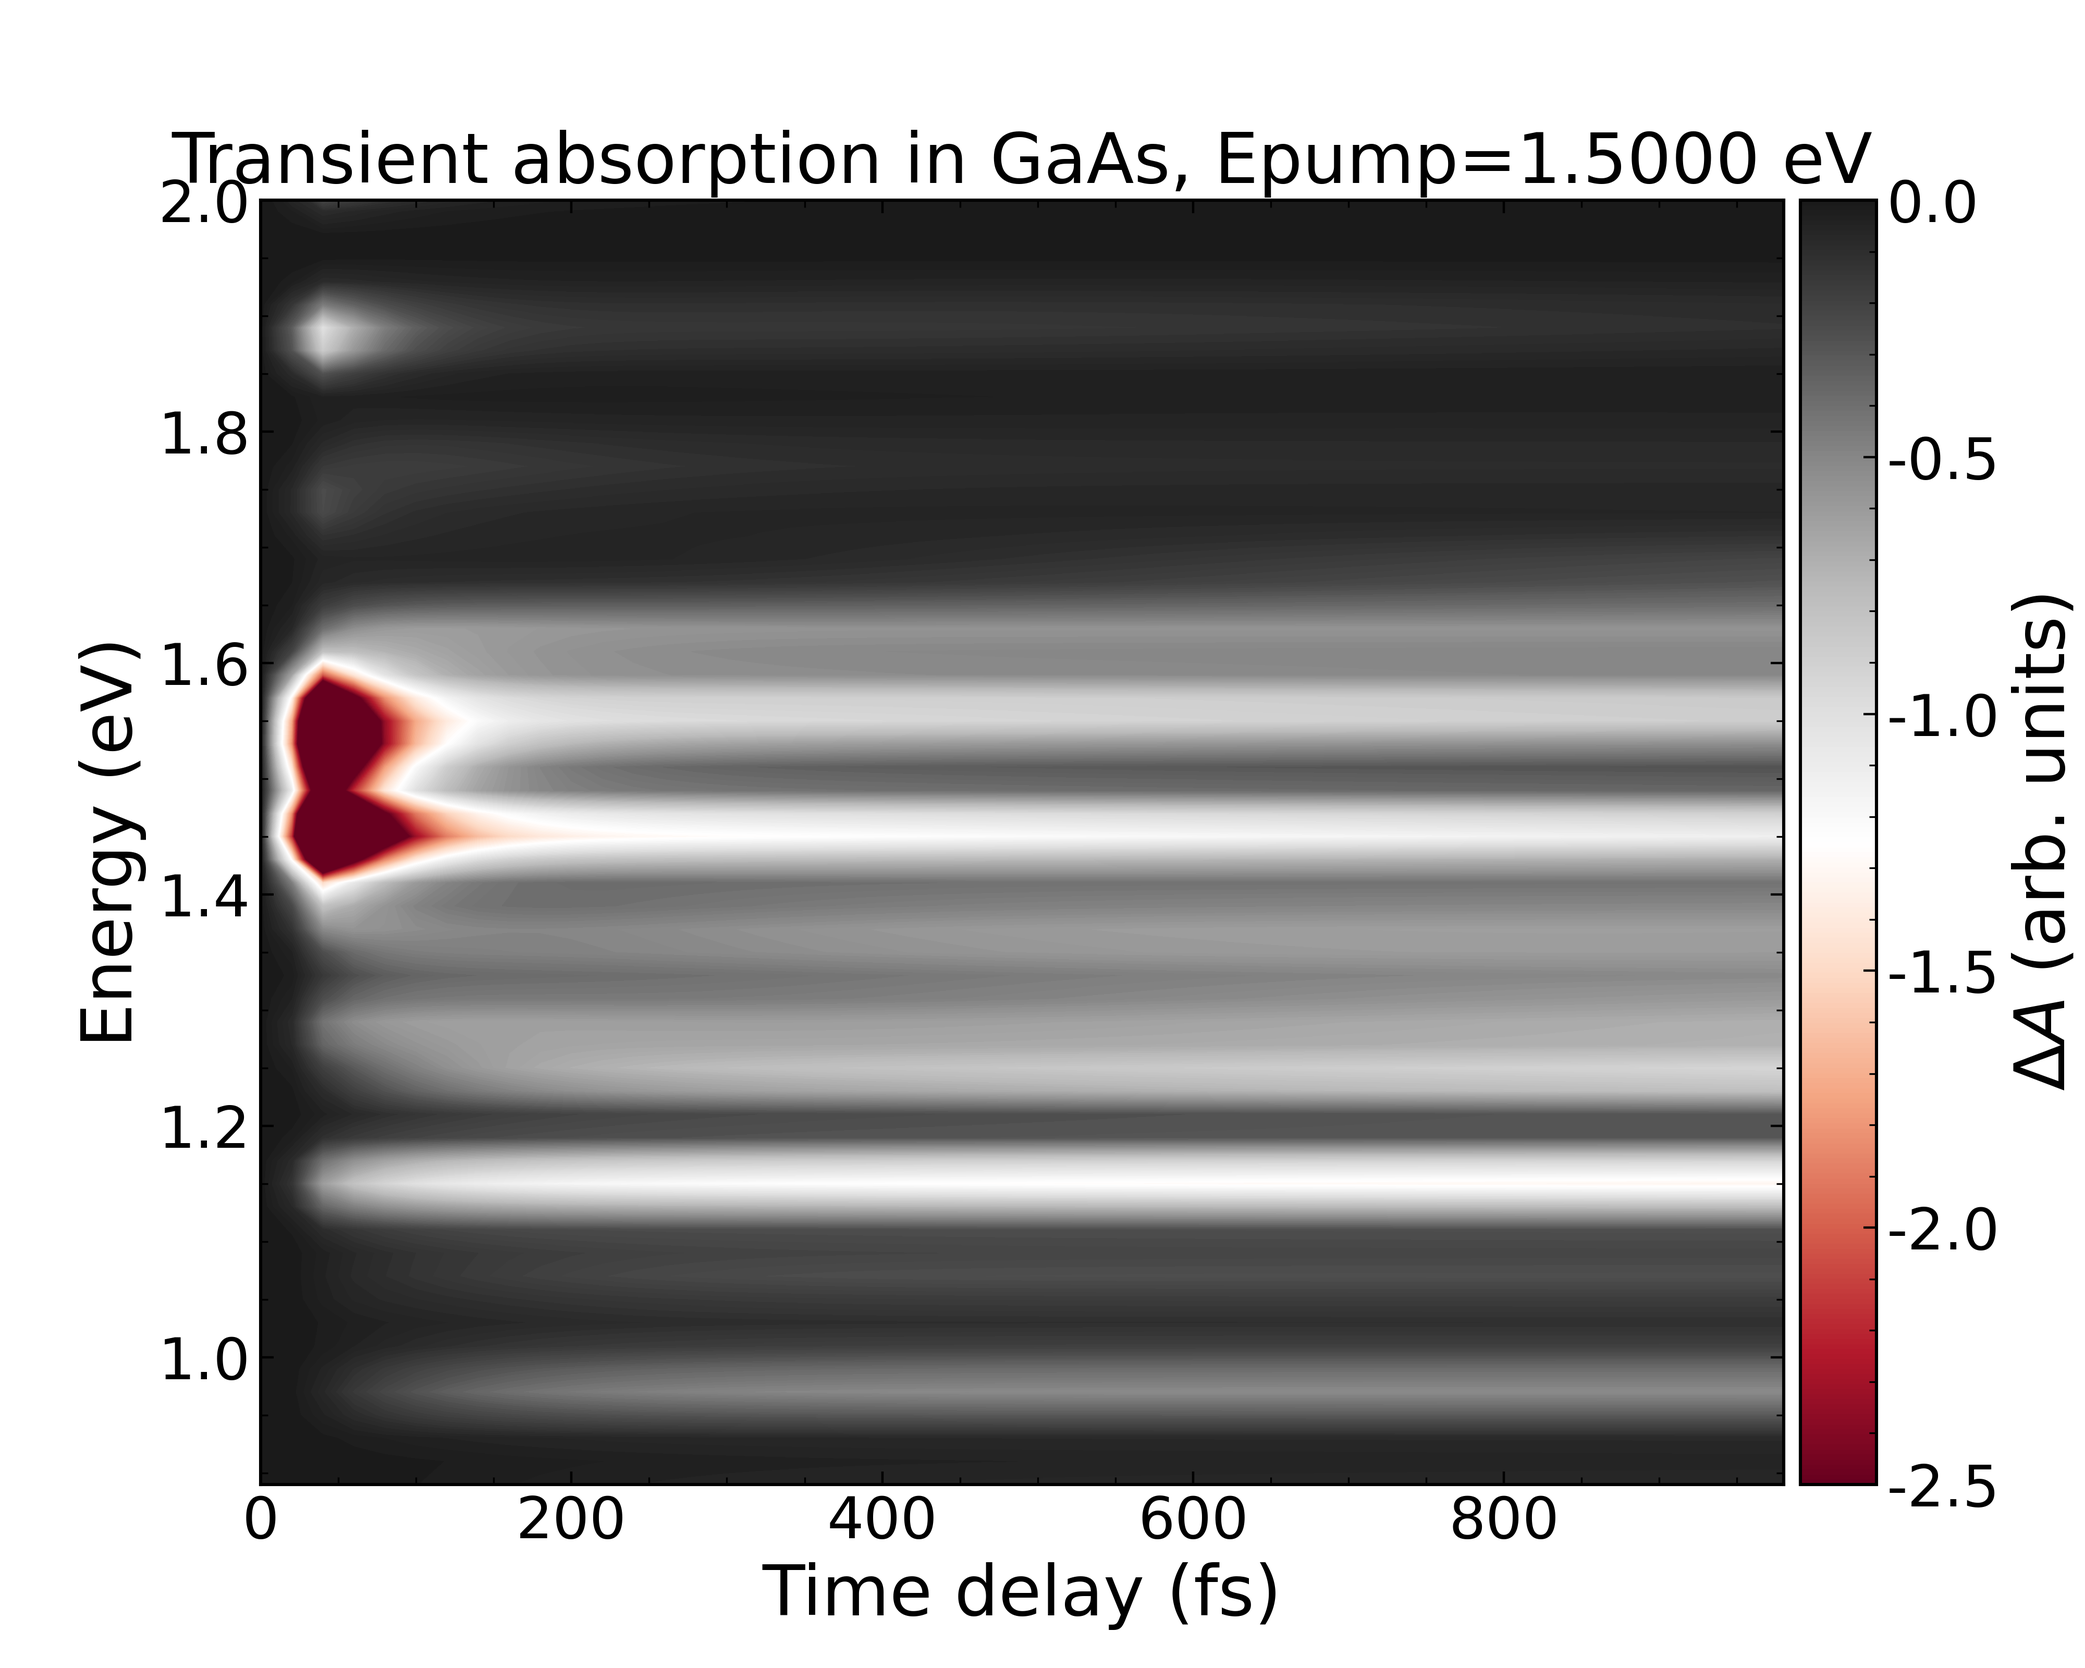
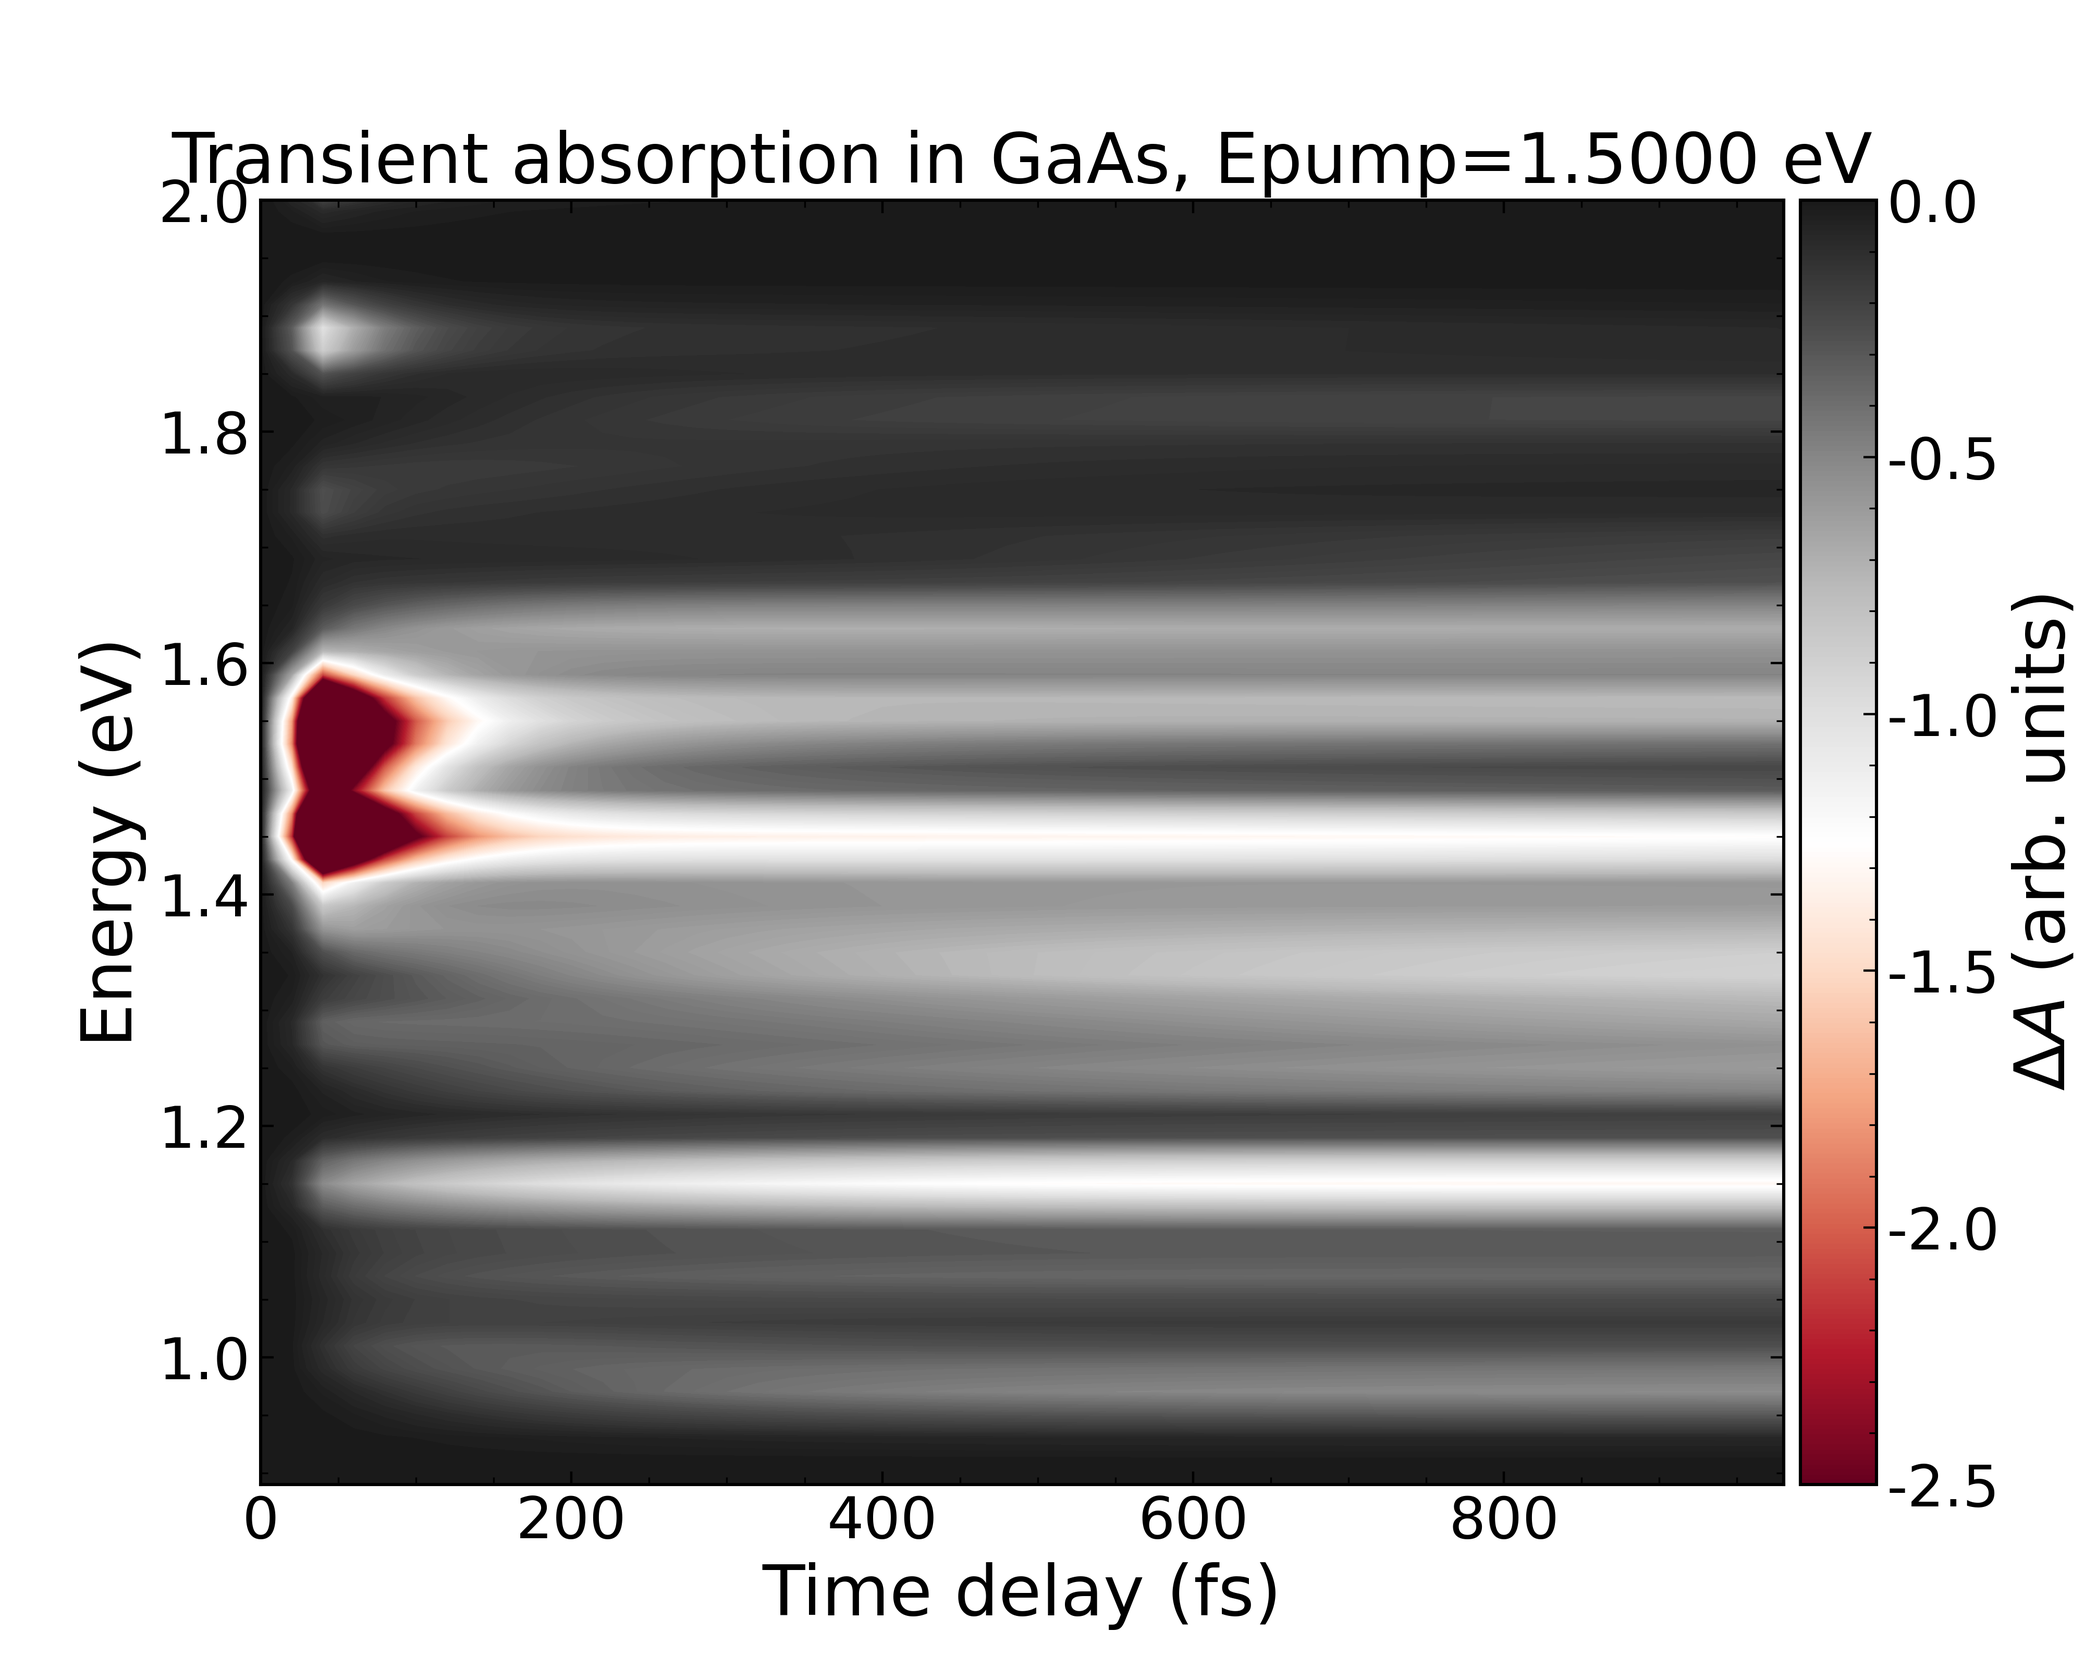
changed grid size for handson05

diff --git a/Hands-on5/bands/plot_bands.py b/Hands-on5/bands/plot_bands.py
@@ -17,7 +17,7 @@ print(f'CBM = {CBM} eV')
 print(f'VBM = {VBM} eV')
 print(f'direct band gap is {bandgap_size} eV')
 
-emin_holes, emax_holes = 4.8, 5.3 # eV
+emin_holes, emax_holes = 4.9, 5.3 # eV
 emin_electrons, emax_electrons = 5.9, 6.7 # eV
 
 xmin, xmax = ax.get_xlim()

diff --git a/Hands-on5/README.md b/Hands-on5/README.md
@@ -1,5 +1,5 @@
-# Tutorial4 Ultrafast Carrier Dynamics
-#### last updated Sep 10
+# Tutorial5 Ultrafast Carrier Dynamics
+#### last updated Sep 12
 The following tutorial demonstrates the feature to simulate ultrafast carrier dynamics with PERTURBO by simulating a pump-probe spectroscopy experiment in GaAs.
 
 ## Description of the example problem ##
@@ -19,7 +19,7 @@ From $t=0$, we simulate the pump pulse by computing the additional excited elect
 
 The materials used in this tutorial can be found [here](https://github.com/perturbo-code/perturbo-workshop-2025/tree/main/Hands-on5), Hands-on5 of this workshop. The folder contains scripts `generate_pump_pulse.py`, `compute_trans_abs.py`, and `plot_trans_abs.py`, and `plot_bands.py`, `gaas_band.kpt` and `pert.in` in `bands` subdirectory. All the reference results can be found under `Refs` folder.
 
-The `gaas_epr.h5` file used in this tutorial can be found listed in the tutorial section [Ultrafast Spectroscopy](https://perturbo-code.github.io/mydoc_spectroscopy.html) on the PERTURBO website, with the direct box link to the folder for epr.h5 from [here](https://caltech.box.com/s/lco8rbeqyyav447x6gd43ztf2wn7skhp).
+[TODO will modify] `gaas_epr.h5` file used in this tutorial can be found [here](https://caltech.app.box.com/s/va0568719rn0y28j1s2mfk09ihw3buuj/folder/298661392249), with example input files from [Ultrafast Spectroscopy](https://perturbo-code.github.io/mydoc_spectroscopy.html).
 
 Download and move `gaas_epr.h5` into the directory `Hands-on5`.
 
@@ -30,7 +30,7 @@ Set up [docker environment](https://github.com/perturbo-code/perturbo-workshop-2
 
 ```bash
 docker run -v "$(PWD):/home/user/run/Hands-on5" -h perturbocker -it --rm --name perturbo perturbo/perturbo:gcc_openmp_3.0
-cd dynamics
+cd Hands-on5
 ```
 
 Then set OpenMP commands (if used)
@@ -79,6 +79,14 @@ Run `bands` calculation with the following input file `pert.in`
 perturbo.x -i pert.in | tee pert.out
 ```
 
+For faster performance with `perturbo.x` using MPI parallelization, try
+
+```bash
+mpirun -n 4 perturbo.x -npools 4 -i pert.in | tee pert.out
+```
+
+The number of `-npools` has to be the same as number of MPI tasks.
+
 We use `PerturboPy` package to visualize the electronic and hole bands stored in `gaas_bands.yml` by running the following Python script `plot_bands.py`. 
 
 ```python
@@ -101,7 +109,7 @@ print(f'CBM = {CBM} eV')
 print(f'VBM = {VBM} eV')
 print(f'direct band gap is {bandgap_size} eV')
 
-emin_holes, emax_holes = 4.8, 5.3 # eV
+emin_holes, emax_holes = 4.9, 5.3 # eV
 emin_electrons, emax_electrons = 5.9, 6.7 # eV
 
 xmin, xmax = ax.get_xlim()
@@ -153,9 +161,9 @@ Create a new input file `setup.in` from the [interative workflow](https://pertur
  
 
 ! ***Optional parameters***
- boltz_qdim(1)      = 30
- boltz_qdim(2)      = 30
- boltz_qdim(3)      = 30
+ boltz_qdim(1)      = 20
+ boltz_qdim(2)      = 20
+ boltz_qdim(3)      = 20
  hole               = .false.
  find_efermi        = .true.
  band_min           = 5
@@ -191,7 +199,7 @@ We similarly create the following `gaas.temper`
 
 In `setup.in`, we modify the band and energy windows as well as `hole = .true.`: 
 
-<pre>
+```
 &perturbo
 ! ***Mandatory parameters***
  calc_mode           = 'setup'
@@ -202,17 +210,17 @@ In `setup.in`, we modify the band and energy windows as well as `hole = .true.`:
  ftemper             = 'gaas.temper'
 
 ! ***Optional parameters***
- boltz_qdim(1)      = 30
- boltz_qdim(2)      = 30
- boltz_qdim(3)      = 30
- <span style="color: orange;">hole               = .true.</span>
+ boltz_qdim(1)      = 20
+ boltz_qdim(2)      = 20
+ boltz_qdim(3)      = 20
+ hole               = .true.
  find_efermi        = .true.
- <span style="color: orange;">band_min           = 2
+ band_min           = 2
  band_max           = 4
- boltz_emin         = 4.8         ! eV
- boltz_emax         = 5.3         ! eV</span>
+ boltz_emin         = 4.9         ! eV
+ boltz_emax         = 5.3         ! eV
 /
-</pre>
+```
 
 Note: 
   - We set the phonon q-grid `boltz_qdim` to be less than `boltz_kdim` for a faster calculation. One should confirm that the resulting dynamics converge with respect to these grid size settings. 
@@ -224,26 +232,6 @@ perturbo.x -i setup.in | tee setup.out
 ```
 
 ### Set initial carrier populations
----
->#### Initial populations at t = 0 as a defined distribution (no pump pulse)
->With `calc_mode = 'dynamics-run'`, one can specify a Fermi-Dirac distribution, a Gaussian or Lorentzian excitation at initial time t = 0 with the input parameters `boltz_init_dist`, `boltz_init_e0`, `boltz_init_smear` and `boltz_init_ampl`. 
->
->```
->&perturbo
-> calc_mode           = 'dynamics-run'
-> ...
-> boltz_init_dist     = 'fermi'
-> boltz_init_e0      = -4.2281057129   ! eV
-> boltz_init_smear   = 146.57          ! meV
-> boltz_init_ampl    = 1.0             !
-> ...
->```
->
->`boltz_init_ampl` is a new parameter in the PERTURBO v3.0 release that specifies a factor multiplied by initial distribution. No initial carrier distributions are generated with  `boltz_init_dist` if `boltz_init_ampl = 0`.
->
->For details, see PERTURBO website [tutorial](https://perturbo-code.github.io/mydoc_dynamics.html#zero-field-ultrafast-dynamicscalc_mode--dynamics-run) or past [workshop](https://github.com/perturbo-code/perturbo-workshop-2023/tree/main/Tutorial4) on ultrafast dynamics.
-
----
 
 #### Initial populations by a pump pulse (this example)
 
@@ -251,7 +239,7 @@ In this example, we specify initial populations with a pump pulse. We first run 
 
 In the `cdyna-elec` directory, we create a new input file `pulse.in` from the [interative workflow](https://perturbo-code.github.io/mydoc_interactive_workflow.html) for `dynamics-run`, and edit the input parameters.
 
-<pre>
+```
 &perturbo
 ! ***Mandatory parameters***
  calc_mode           = 'dynamics-run'
@@ -260,34 +248,34 @@ In the `cdyna-elec` directory, we create a new input file `pulse.in` from the [i
  boltz_kdim(2)       = 60
  boltz_kdim(3)       = 60
  ftemper             = 'gaas.temper'
- <span style="color: orange;">boltz_nstep         = 1
+ boltz_nstep         = 1
  output_nstep        = 1
- time_step           = 1.0             ! fs</span>
+ time_step           = 1.0             ! fs
  boltz_init_dist     = 'gaussian'
  scat_impl           = 'std'
 
 ! ***Optional parameters***
- <span style="color: orange;">solver             = 'rk4'</span>
+ solver             = 'rk4'
  boltz_init_e0      = -9999.0         ! eV
  boltz_init_smear   = 20.0            ! meV
- <span style="color: orange;">boltz_init_ampl    = 0.0             ! arbitrary
+ boltz_init_ampl    = 0.0             ! arbitrary
  delta_smear        = 8.0             ! meV
- phfreq_cutoff      = 1.0             ! meV</span>
- boltz_qdim(1)      = 30
- boltz_qdim(2)      = 30
- boltz_qdim(3)      = 30
+ phfreq_cutoff      = 1.0             ! meV
+ boltz_qdim(1)      = 20
+ boltz_qdim(2)      = 20
+ boltz_qdim(3)      = 20
  hole               = .false.
  band_min           = 5
  band_max           = 5
  boltz_emin         = 5.9             ! eV
  boltz_emax         = 6.7             ! eV
  load_scatter_eph   = .false.
- <span style="color: orange;">tmp_dir            = './tmp'
- pump_pulse         = .false.</span>
+ tmp_dir            = './tmp'
+ pump_pulse         = .false.
  pump_pulse_fname   = 'pump_pulse.h5'
- <span style="color: orange;">yaml_fname = 'gaas_dyna_init.yml'</span>
+ yaml_fname = 'gaas_dyna_init.yml'
 /
-</pre>
+```
 
 Note:
   - The energy and band window should be the same as that in `calc_mode = 'setup'` calculation done earlier.
@@ -313,7 +301,7 @@ vim gaas_dyna_init.yml
 
 Similarly, we perform the initial dynamics for holes in the `cdyna-hole` directory with `pulse.in` slightly changed from that for electrons:
 
-<pre>
+'''
 &perturbo
 ! ***Mandatory parameters***
  calc_mode           = 'dynamics-run'
@@ -335,21 +323,21 @@ Similarly, we perform the initial dynamics for holes in the `cdyna-hole` directo
  boltz_init_ampl    = 0.0             ! arbitrary
  delta_smear        = 8.0             ! meV
  phfreq_cutoff      = 1.0             ! meV
- boltz_qdim(1)      = 30
- boltz_qdim(2)      = 30
- boltz_qdim(3)      = 30
- <span style="color: orange;">hole               = .true.
+ boltz_qdim(1)      = 20
+ boltz_qdim(2)      = 20
+ boltz_qdim(3)      = 20
+ hole               = .true.
  band_min           = 2
  band_max           = 4
- boltz_emin         = 4.8         ! eV
- boltz_emax         = 5.3         ! eV</span>
+ boltz_emin         = 4.9         ! eV
+ boltz_emax         = 5.3         ! eV
  load_scatter_eph   = .false.
  tmp_dir            = './tmp'
  pump_pulse         = .false.
  pump_pulse_fname   = 'pump_pulse.h5'
  yaml_fname = 'gaas_dyna_init.yml'
 /
-</pre>
+'''
 
 ```bash
 perturbo.x -i pulse.in | tee pulse.out
@@ -468,25 +456,25 @@ vim pp.in
 ```
 
 `pp.in` contains the following for electrons, 
-<pre>
+```
 &perturbo
- <span style="color: orange;">calc_mode           = 'dynamics-pp'</span>
+ calc_mode           = 'dynamics-pp'
  prefix              = 'gaas'
  boltz_kdim(1)       = 60
  boltz_kdim(2)       = 60
  boltz_kdim(3)       = 60
  ftemper             = 'gaas.temper'
- boltz_qdim(1)      = 30
- boltz_qdim(2)      = 30
- boltz_qdim(3)      = 30
+ boltz_qdim(1)      = 20
+ boltz_qdim(2)      = 20
+ boltz_qdim(3)      = 20
  hole               = .false.
  band_min           = 5
  band_max           = 5
  boltz_emin         = 5.9             ! eV
  boltz_emax         = 6.7             ! eV
- <span style="color: orange;">boltz_de 	    = 1 	      ! meV</span>
+ boltz_de 	    = 1 	      ! meV
 /
-</pre>
+```
 
 `boltz_de` specifies the grid size in meV for tetrahedron integration over carrier energy.
 
@@ -551,34 +539,6 @@ In `dyna.in`, similarly modify the following inputs
 ```bash
 perturbo.x -i dyna.in | tee dyna.out
 ```
-
-### Post-processing with dynamics-pp
-
->Create a new input file `pp.in` from the [interative workflow](https://perturbo-code.github.io/mydoc_interactive_workflow.html). Alternatively, one can save time by copying the input file `dyna.in` and editing the corresponding parameters. In this case, one needs to change `calc_mode` to `'dynamics-pp'`. 
-><pre>
->&perturbo
-> <span style="color: orange;">calc_mode           = 'dynamics-pp'</span>
-> prefix              = 'gaas'
-> boltz_kdim(1)       = 60
-> boltz_kdim(2)       = 60
-> boltz_kdim(3)       = 60
-> ftemper             = 'gaas.temper'
-> boltz_qdim(1)      = 30
-> boltz_qdim(2)      = 30
-> boltz_qdim(3)      = 30
-> hole               = .false.
-> band_min           = 5
-> band_max           = 5
-> boltz_emin         = 5.9             ! eV
-> boltz_emax         = 6.7             ! eV
-> <span style="color: orange;">boltz_de 	    = 1 	      ! meV</span>
->/
-></pre>
->
->Run post-processing calculation
->```bash
->perturbo.x -i pp.in | tee pp.out
->```
 
 ### Result analysis with Perturbopy
 
@@ -657,6 +617,56 @@ So Docker is just the name of the software that allows you to use things called 
 
 #TODO!!! show converged results
 
+<!-- 
+### Post-processing with dynamics-pp
+
+>Create a new input file `pp.in` from the [interative workflow](https://perturbo-code.github.io/mydoc_interactive_workflow.html). Alternatively, one can save time by copying the input file `dyna.in` and editing the corresponding parameters. In this case, one needs to change `calc_mode` to `'dynamics-pp'`. 
+>```
+>&perturbo
+> calc_mode           = 'dynamics-pp'
+> prefix              = 'gaas'
+> boltz_kdim(1)       = 60
+> boltz_kdim(2)       = 60
+> boltz_kdim(3)       = 60
+> ftemper             = 'gaas.temper'
+> boltz_qdim(1)      = 20
+> boltz_qdim(2)      = 20
+> boltz_qdim(3)      = 20
+> hole               = .false.
+> band_min           = 5
+> band_max           = 5
+> boltz_emin         = 5.9             ! eV
+> boltz_emax         = 6.7             ! eV
+> boltz_de 	    = 1 	      ! meV
+>/
+>```
+>
+>Run post-processing calculation
+>```bash
+>perturbo.x -i pp.in | tee pp.out
+>```
+-->
+
+---
+>#### Initial populations at t = 0 as a defined distribution (no pump pulse)
+>With `calc_mode = 'dynamics-run'`, one can specify a Fermi-Dirac distribution, a Gaussian or Lorentzian excitation at initial time t = 0 with the input parameters `boltz_init_dist`, `boltz_init_e0`, `boltz_init_smear` and `boltz_init_ampl`. 
+>
+>```
+>&perturbo
+> calc_mode           = 'dynamics-run'
+> ...
+> boltz_init_dist     = 'fermi'
+> boltz_init_e0      = -4.2281057129   ! eV
+> boltz_init_smear   = 146.57          ! meV
+> boltz_init_ampl    = 1.0             !
+> ...
+>```
+>
+>`boltz_init_ampl` is a new parameter in the PERTURBO v3.0 release that specifies a factor multiplied by initial distribution. No initial carrier distributions are generated with  `boltz_init_dist` if `boltz_init_ampl = 0`.
+>
+>For details, see PERTURBO website [tutorial](https://perturbo-code.github.io/mydoc_dynamics.html#zero-field-ultrafast-dynamicscalc_mode--dynamics-run) or past [workshop](https://github.com/perturbo-code/perturbo-workshop-2023/tree/main/Tutorial4) on ultrafast dynamics.
+
+---
 
 ### Additional Resources
 To explore more features of ultrafast dynamics, refer to PERTURBO tutorials on [Ultrafast dynamics](https://perturbo-code.github.io/mydoc_dynamics.html#zero-field-ultrafast-dynamicscalc_mode--dynamics-run) and [Ultrafast spectroscopy](https://perturbo-code.github.io/mydoc_spectroscopy.html).
